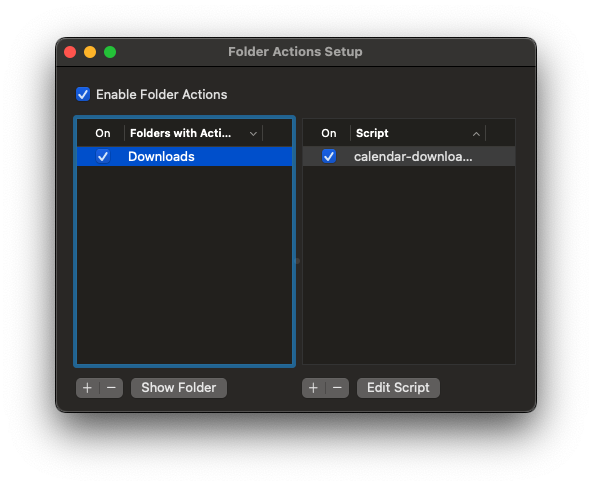
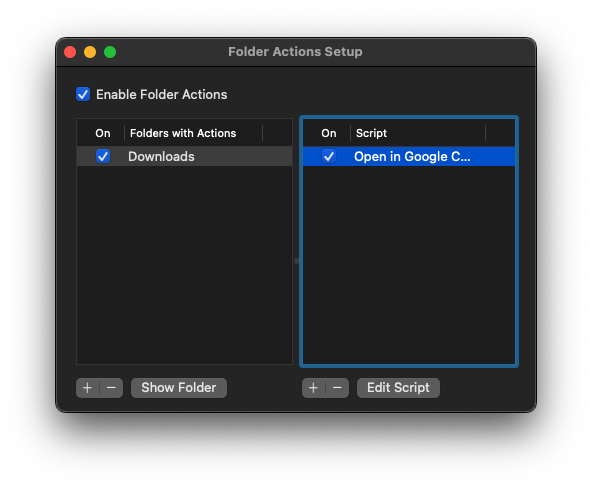
Simplify installer and rename project files

Changed region(s): [[0.1216, 0.216, 0.8818, 0.7716]]

diff --git a/set-default-handler.js b/set-default-handler.js
@@ -1,0 +1,21 @@
+ObjC.import("Foundation")
+ObjC.import("CoreServices")
+
+const env = $.NSProcessInfo.processInfo.environment
+const bundleId = env.objectForKey("APP_BUNDLE_ID")
+const contentTypes = ["com.apple.ical.ics", "public.calendar-event"]
+const roles = [$.kLSRolesViewer, $.kLSRolesAll]
+
+for (const contentType of contentTypes) {
+  for (const role of roles) {
+    const status = $.LSSetDefaultRoleHandlerForContentType($(contentType), role, bundleId)
+    if (Number(status) !== 0) {
+      throw new Error(
+        "LSSetDefaultRoleHandlerForContentType failed for " +
+          contentType +
+          " with status " +
+          Number(status)
+      )
+    }
+  }
+}

diff --git a/README.md b/README.md
@@ -36,3 +36,12 @@ The installer will proceed to open the `Folder Actions Setup`. To automatically 
 - double-click an `.ics` file
 
 The file opens as a pre-filled Google Calendar event in your browser. The event is not added until you click the `Save` button in the browser.
+
+## Uninstall
+
+Remove:
+
+- `/Users/dagfev/Applications/Open in Google Calendar.app`
+- `/Users/dagfev/Library/Scripts/Folder Action Scripts/open - in Google Calendar.scpt`
+
+If you set it as the default opener for `.ics` files, change the default app in Finder afterwards.